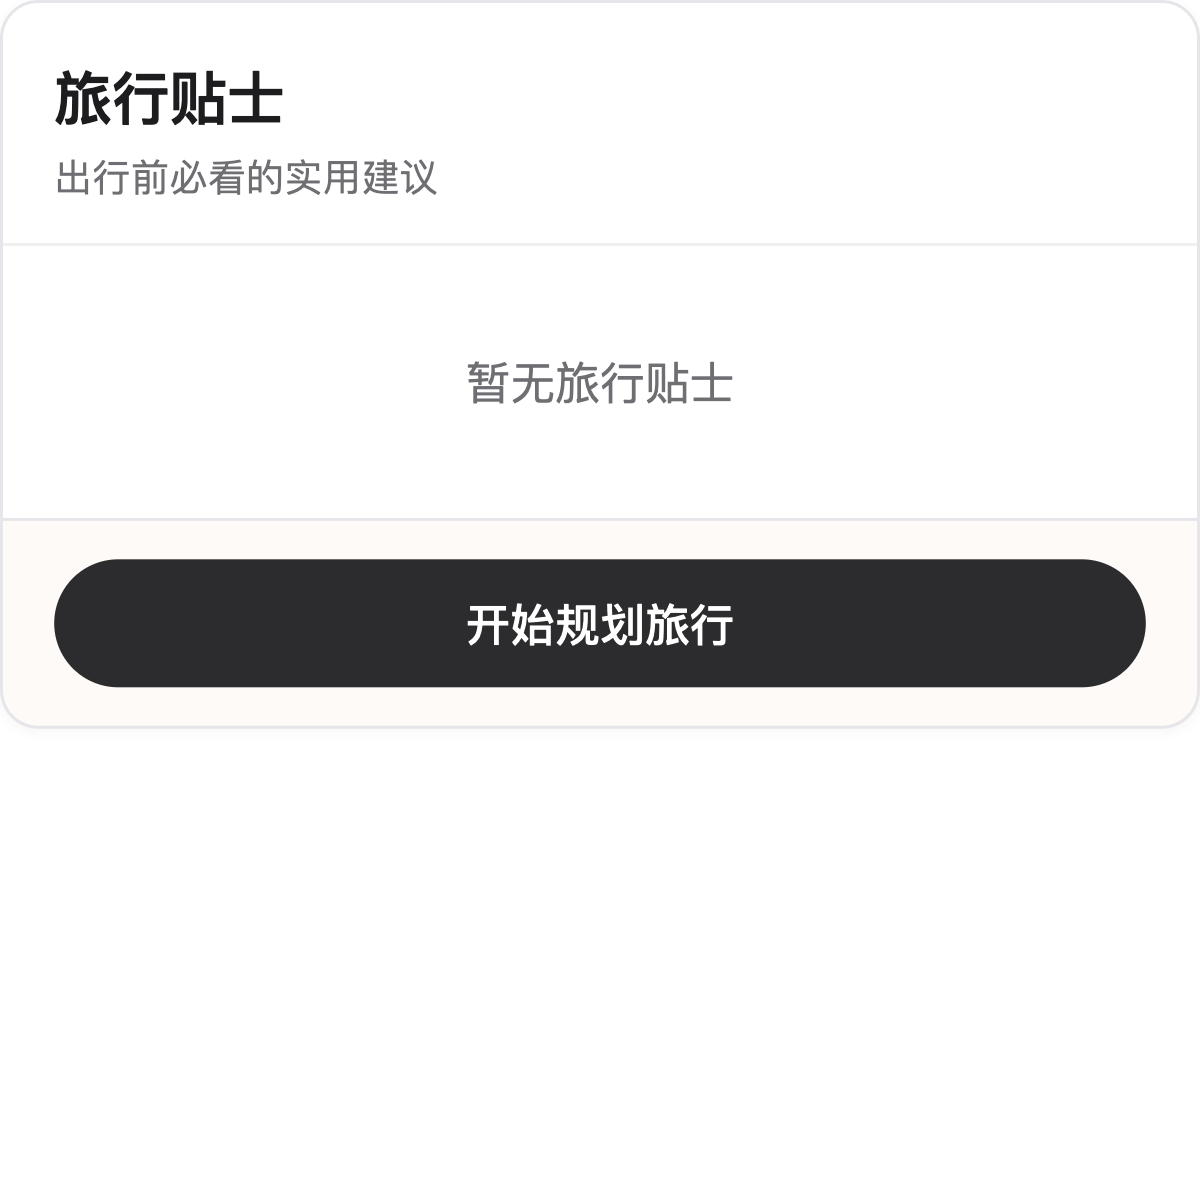
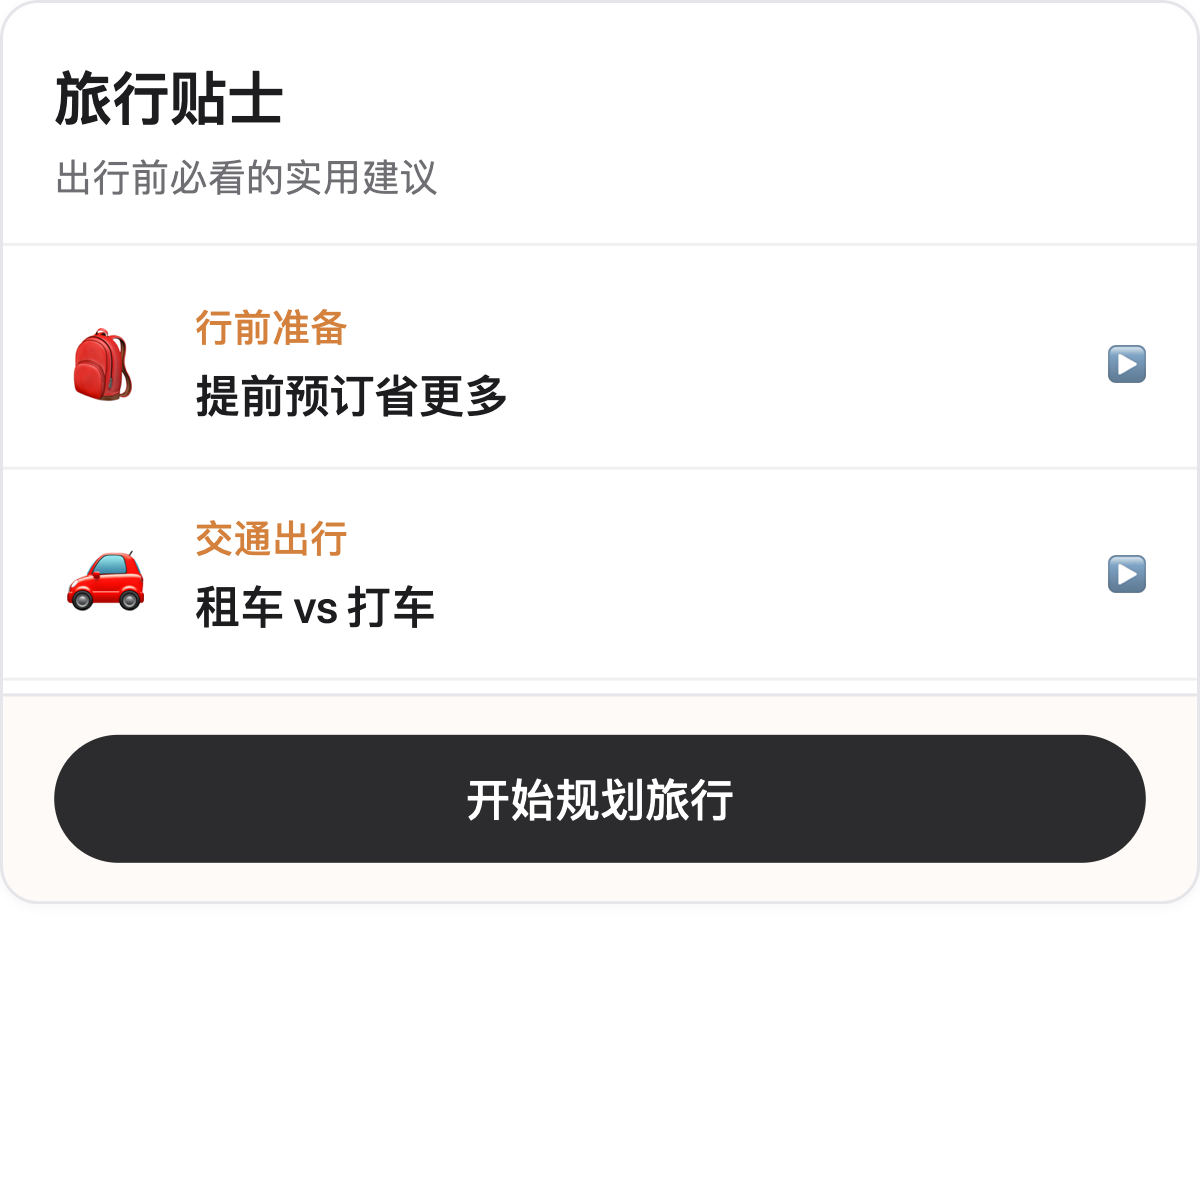
fix: tips-card 截图修复（清理残留进程后重跑成功）

diff --git a/skills/travel-skill/components/tips-card/index.js b/skills/travel-skill/components/tips-card/index.js
@@ -1,11 +1,5 @@
 const { isPreviewMode } = require('../../utils/util')
 
-const MOCK_DATA = [
-  { tipId: 1, title: '最佳旅行时间', content: '春秋两季气候宜人', category: '出行建议' },
-  { tipId: 2, title: '当地美食', content: '特色小吃不容错过', category: '美食' },
-  { tipId: 3, title: '交通指南', content: '地铁公交覆盖主要景点', category: '交通' }
-]
-
 // skills/travel-skill/components/tips-card/index.js
 Component({
   data: {
@@ -16,14 +10,11 @@ Component({
     // TODO: cli agent render 截图时序问题的临时兼容，待 CLI 修复后清理
     attached() {
       if (isPreviewMode() && this.data.items.length === 0) {
-        let maxItems = 3
-        try {
-          const viewCtx = wx.modelContext.getViewContext(this)
-          const { maxHeight } = viewCtx.getDimensions()
-          maxItems = Math.max(1, Math.min(3, Math.floor((maxHeight - 150) / 200)))
-        } catch (e) { }
         this.setData({
-          items: MOCK_DATA.slice(0, maxItems)
+          items: [
+            { id: 'T01', category: '行前准备', icon: '🎒', title: '提前预订省更多', content: '建议提前2-4周预订机票和酒店，可节省20%-30%的费用。' },
+            { id: 'T02', category: '交通出行', icon: '🚗', title: '租车 vs 打车', content: '家庭出行推荐租车；2人以内打车或网约车更划算。' }
+          ]
         })
       }
     },